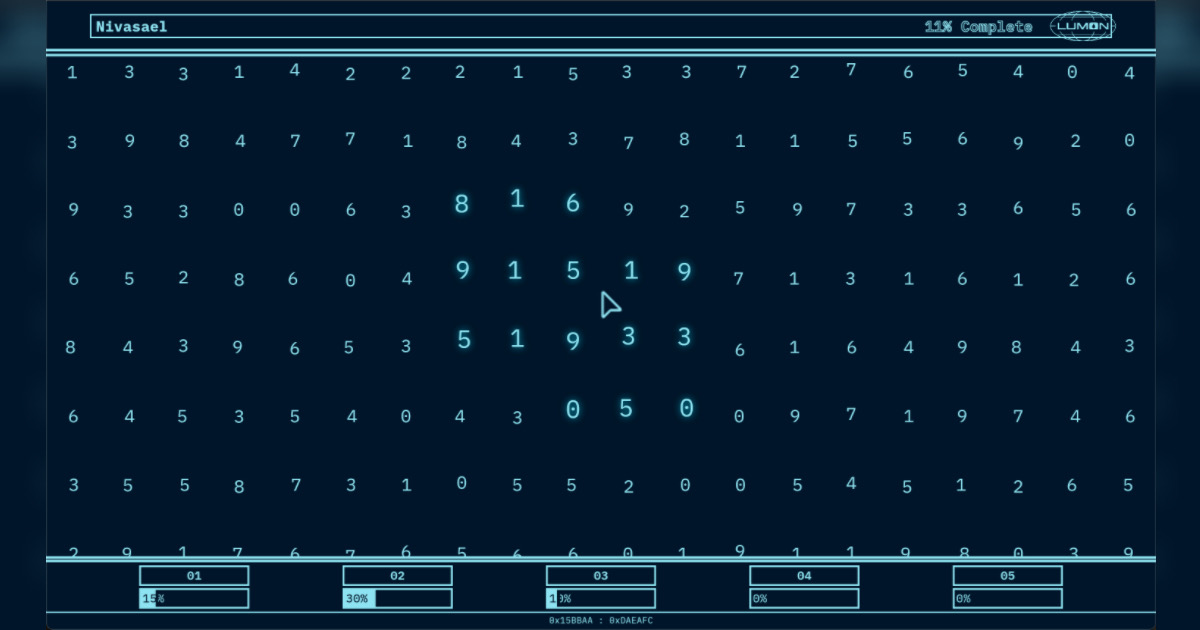
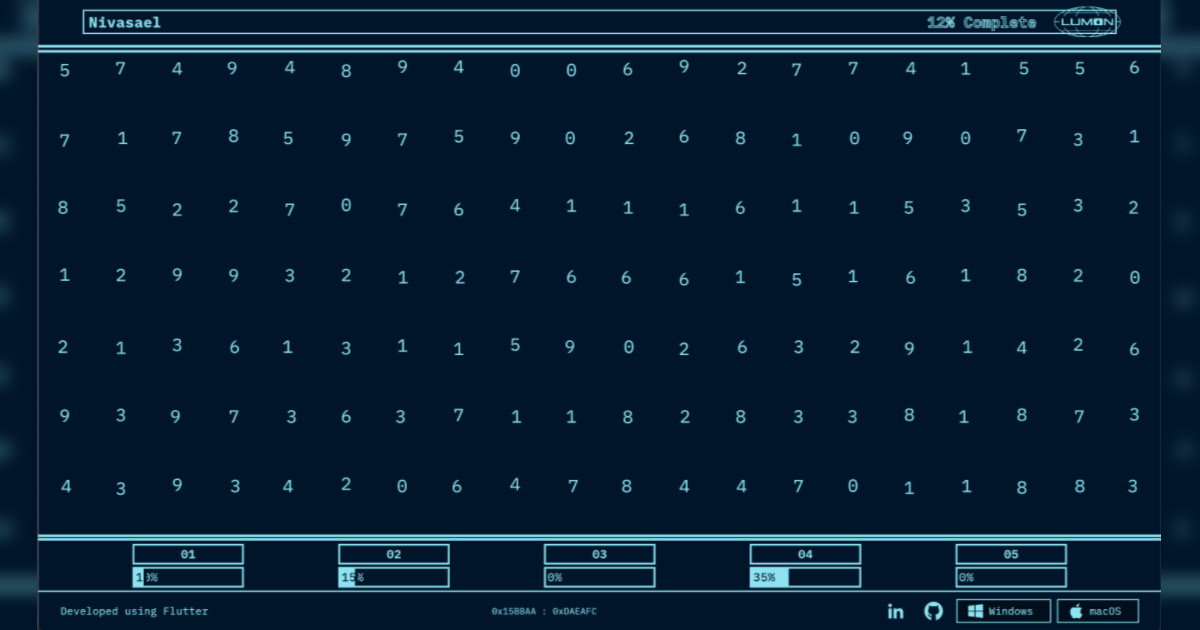
Updated images

diff --git a/lib/widgets/footer.dart b/lib/widgets/footer.dart
@@ -1,3 +1,4 @@
+import 'package:flutter/foundation.dart';
 import 'package:flutter/material.dart';
 import 'package:macrodata_refinement/ui_theme.dart';
 import 'package:url_launcher/url_launcher.dart';
@@ -68,50 +69,64 @@ class Footer extends StatelessWidget {
                   );
                 },
               ),
-              SizedBox(width: 10.0),
-              ElevatedButton.icon(
-                onPressed: () async {
-                  await _openUrl('');
-                },
-                style: ElevatedButton.styleFrom(
-                  backgroundColor: Colors.transparent,
-                  shape: RoundedRectangleBorder(
-                    borderRadius: BorderRadius.zero,
-                    side: BorderSide(color: UITheme.themeColor, width: 1.5),
-                  ),
-                  overlayColor: UITheme.themeColor,
+              if (kIsWeb)
+                Row(
+                  mainAxisSize: MainAxisSize.min,
+                  children: [
+                    SizedBox(width: 10.0),
+                    ElevatedButton.icon(
+                      onPressed: () async {
+                        await _openUrl(
+                          'https://github.com/srinivasa-dev/severance-mdr-console/blob/main/downloads/MDRConsole.exe',
+                        );
+                      },
+                      style: ElevatedButton.styleFrom(
+                        backgroundColor: Colors.transparent,
+                        shape: RoundedRectangleBorder(
+                          borderRadius: BorderRadius.zero,
+                          side: BorderSide(
+                            color: UITheme.themeColor,
+                            width: 1.5,
+                          ),
+                        ),
+                        overlayColor: UITheme.themeColor,
+                      ),
+                      icon: Image.asset(
+                        'assets/brand-logos/windows.png',
+                        color: UITheme.themeColor,
+                        height: 20.0,
+                        width: 20.0,
+                      ),
+                      label: Text('Windows', style: UITheme.uiFont(14.0)),
+                    ),
+                    SizedBox(width: 8.0),
+                    ElevatedButton.icon(
+                      onPressed: () async {
+                        await _openUrl(
+                          'https://github.com/srinivasa-dev/severance-mdr-console/blob/main/downloads/MDRConsole.dmg',
+                        );
+                      },
+                      style: ElevatedButton.styleFrom(
+                        backgroundColor: Colors.transparent,
+                        shape: RoundedRectangleBorder(
+                          borderRadius: BorderRadius.zero,
+                          side: BorderSide(
+                            color: UITheme.themeColor,
+                            width: 1.5,
+                          ),
+                        ),
+                        overlayColor: UITheme.themeColor,
+                      ),
+                      icon: Image.asset(
+                        'assets/brand-logos/apple.png',
+                        color: UITheme.themeColor,
+                        height: 20.0,
+                        width: 20.0,
+                      ),
+                      label: Text('macOS', style: UITheme.uiFont(14.0)),
+                    ),
+                  ],
                 ),
-                icon: Image.asset(
-                  'assets/brand-logos/windows.png',
-                  color: UITheme.themeColor,
-                  height: 20.0,
-                  width: 20.0,
-                ),
-                label: Text('Windows', style: UITheme.uiFont(14.0)),
-              ),
-              SizedBox(width: 8.0),
-              ElevatedButton.icon(
-                onPressed: () async {
-                  await _openUrl(
-                    'https://github.com/srinivasa-dev/severance-mdr-console/blob/main/downloads/MDRConsole.dmg',
-                  );
-                },
-                style: ElevatedButton.styleFrom(
-                  backgroundColor: Colors.transparent,
-                  shape: RoundedRectangleBorder(
-                    borderRadius: BorderRadius.zero,
-                    side: BorderSide(color: UITheme.themeColor, width: 1.5),
-                  ),
-                  overlayColor: UITheme.themeColor,
-                ),
-                icon: Image.asset(
-                  'assets/brand-logos/apple.png',
-                  color: UITheme.themeColor,
-                  height: 20.0,
-                  width: 20.0,
-                ),
-                label: Text('macOS', style: UITheme.uiFont(14.0)),
-              ),
             ],
           ),
         ],
